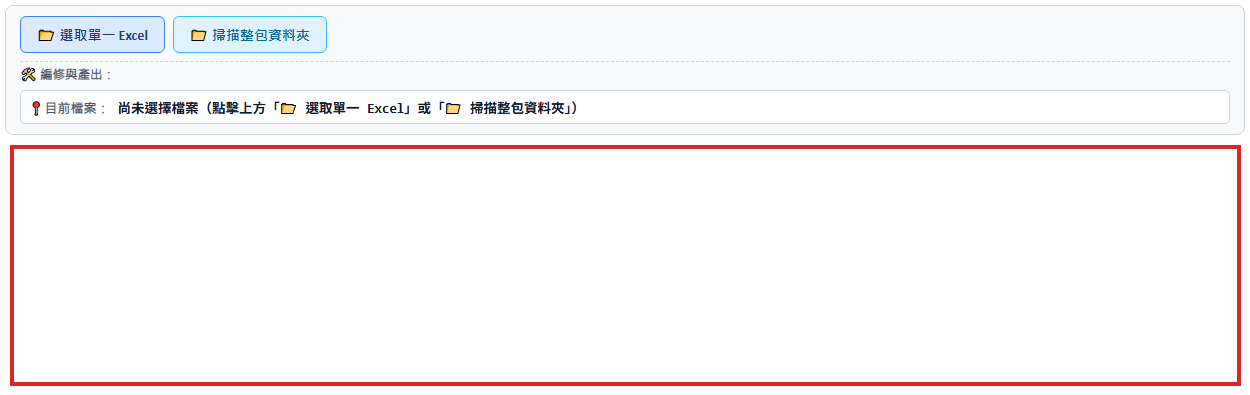
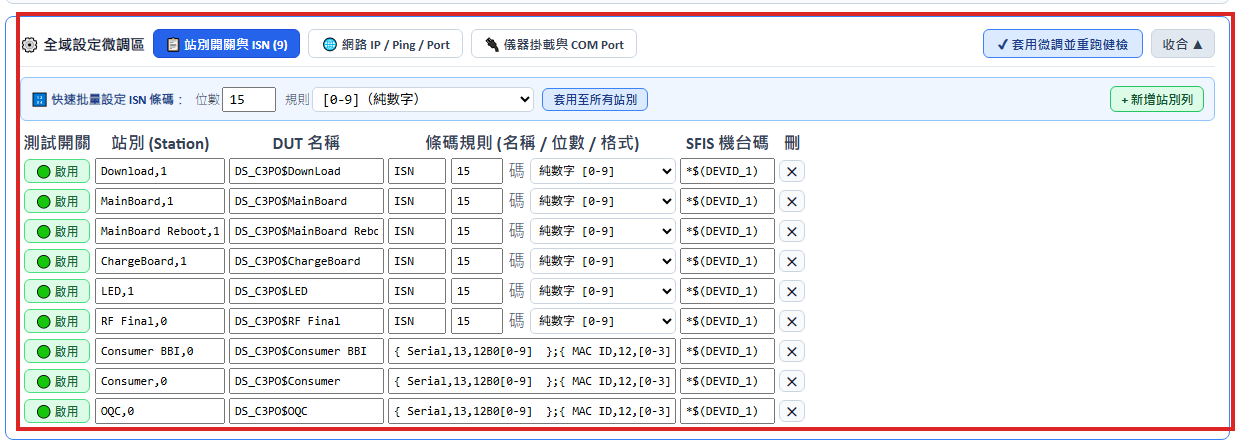
Fix blank audit guide screenshots and add Mode 2 / Tab 2 tutorial steps

Changed region(s): [[0.0, 0.0, 0.9984, 1.0]]

diff --git a/centimani_studio/web/js/flow_guide.js b/centimani_studio/web/js/flow_guide.js
@@ -139,6 +139,16 @@ const FLOW_GUIDE_DATA = {
         step: 'Step 3｜一鍵複製乾淨異常摘要報告',
         desc: '點擊右上角「📋 複製測試結論摘要」，自動將專案站別、異常測項、實測數據與推測原因整理成純文字摘要，方便直接貼到 Teams 群組或 Mail 回報。',
         img: '/images/guide_diag_3.png'
+      },
+      {
+        step: 'Step 4｜書籤二：切換至「模式二：貼上錯誤文字 / 診斷片段」',
+        desc: '若當下沒有完整 .log 檔，只有從黑色主控台視窗或 System Error 彈窗複製出來的幾行文字，可點擊上方第二個書籤切換至文字貼上模式。',
+        img: '/images/guide_diag_4.png'
+      },
+      {
+        step: 'Step 5｜貼上錯誤文字並點擊「立即診斷貼上文字」',
+        desc: '將錯誤訊息貼入文字框後點擊右下角綠色「🔍 立即診斷貼上文字」，系統會自動比對 Checksum 失敗、SFIS 斷線、儀器鎖定與腳本語法錯誤，立即給出排查步驟。',
+        img: '/images/guide_diag_5.png'
       }
     ],
     tip: '適用場景：產線 FAIL 快速判讀、找出測試 Cycle Time 瓶頸測項'
@@ -168,9 +178,19 @@ const FLOW_GUIDE_DATA = {
         img: '/images/guide_tic_2.png'
       },
       {
-        step: 'Step 3｜在右側直接套用至「母體積木」或「現有 Excel」',
-        desc: '選定左側代碼後，可於右側切換「方案一：套用至母體積木」或「方案二：寫入現有 Excel」，點擊步驟旁的「套用」按鈕即可將合法 7 碼代碼直接寫入測試步驟。',
+        step: 'Step 3｜書籤一：套用至母體積木（寫入新產生腳本）',
+        desc: '在右側預設的「🧩 方案一：套用至母體積木」頁籤中，展開欲修改的積木步驟，點擊右側「套用」按鈕即可將合法 7 碼代碼直接寫入新腳本母體，並可勾選同步帶入英文 Description。',
         img: '/images/guide_tic_3.png'
+      },
+      {
+        step: 'Step 4｜書籤二：切換至「方案二：寫入現有 Excel」',
+        desc: '若是要補齊既有的 TestFlow.xlsx 檔案（例如稽核抓出缺少第 16 欄 TestID），請點擊右側第二個書籤「📄 方案二：寫入現有 Excel」。',
+        img: '/images/guide_tic_4.png'
+      },
+      {
+        step: 'Step 5｜方案二：篩選「僅看缺 TestID 列」並寫入存檔',
+        desc: '點擊「📂 選擇 Excel 檔案」（若剛在健檢載入過會自動帶入），切換「僅看缺 TestID 列」只列出漏填代碼的步驟，套用後即可直接簽章存回原檔。',
+        img: '/images/guide_tic_5.png'
       }
     ],
     tip: '適用場景：撰寫新測項找標準 7 碼代碼，或補齊健檢抓出的缺少 TestID 列'

diff --git a/centimani_studio/web/index.html b/centimani_studio/web/index.html
@@ -2073,7 +2073,9 @@ async function initPage() {
   else if (tour === 'ni6009') { openNi6009Hmi('gen'); }
   else if (tour === 'feasa') { openInstHmi('gen', 'FeasaLED'); }
   else if (tour === 'diag_1') { switchTab('diagnose'); }
+  else if (tour === 'diag_2') { switchTab('diagnose'); if (typeof switchSourceMode === 'function') switchSourceMode('text'); }
   else if (tour === 'tic_1') { switchTab('tic'); }
+  else if (tour === 'tic_2') { switchTab('tic'); if (typeof switchTicTargetMode === 'function') switchTicTargetMode('excel'); }
   else if (tour === 'audit_1') { switchTab('audit'); }
   else if (tour === 'audit_2' || tour === 'audit_3') {
     switchTab('audit');
